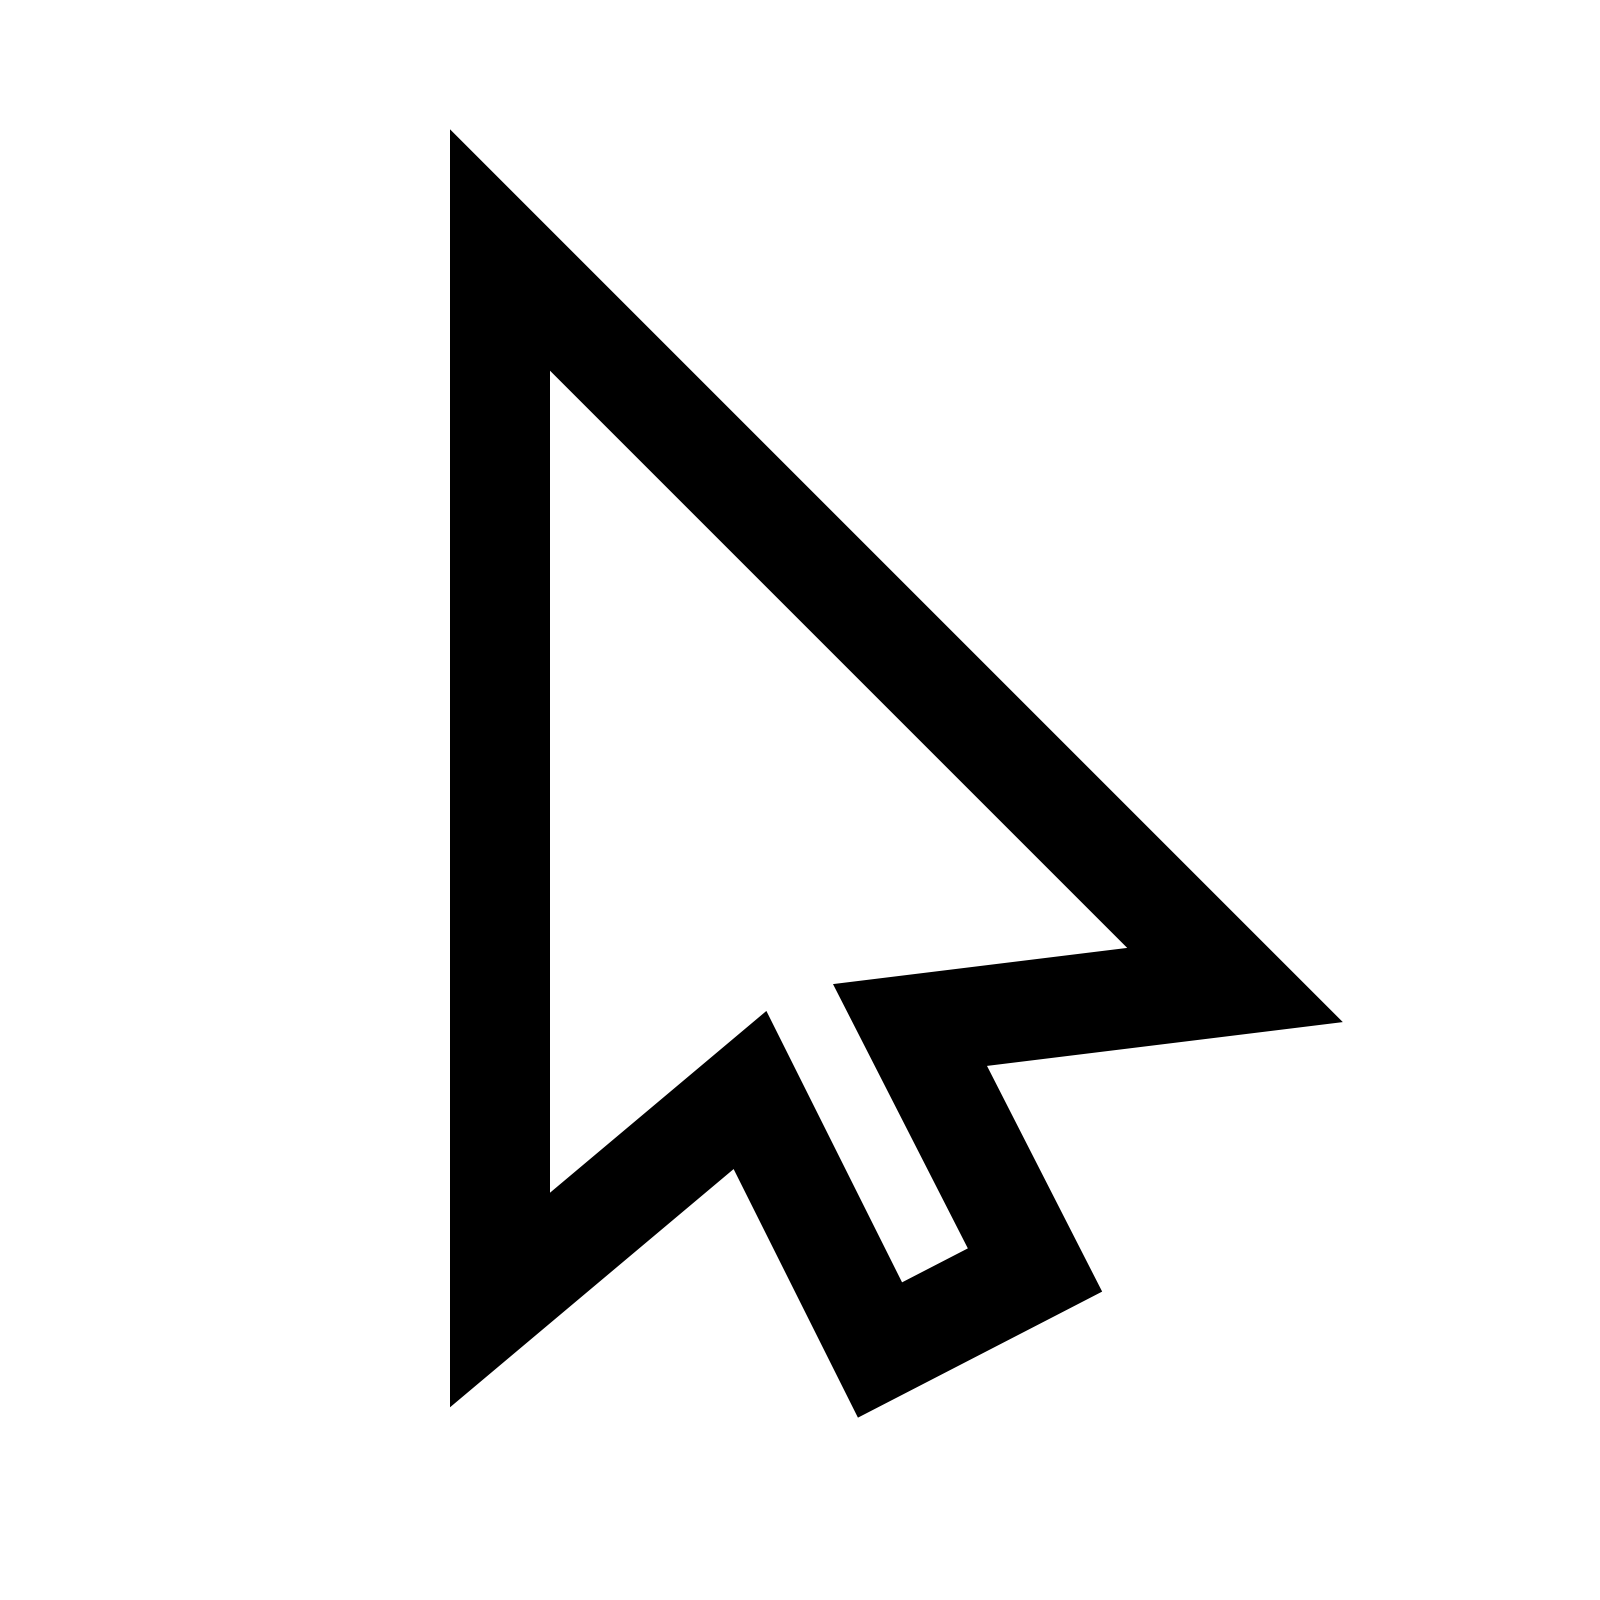
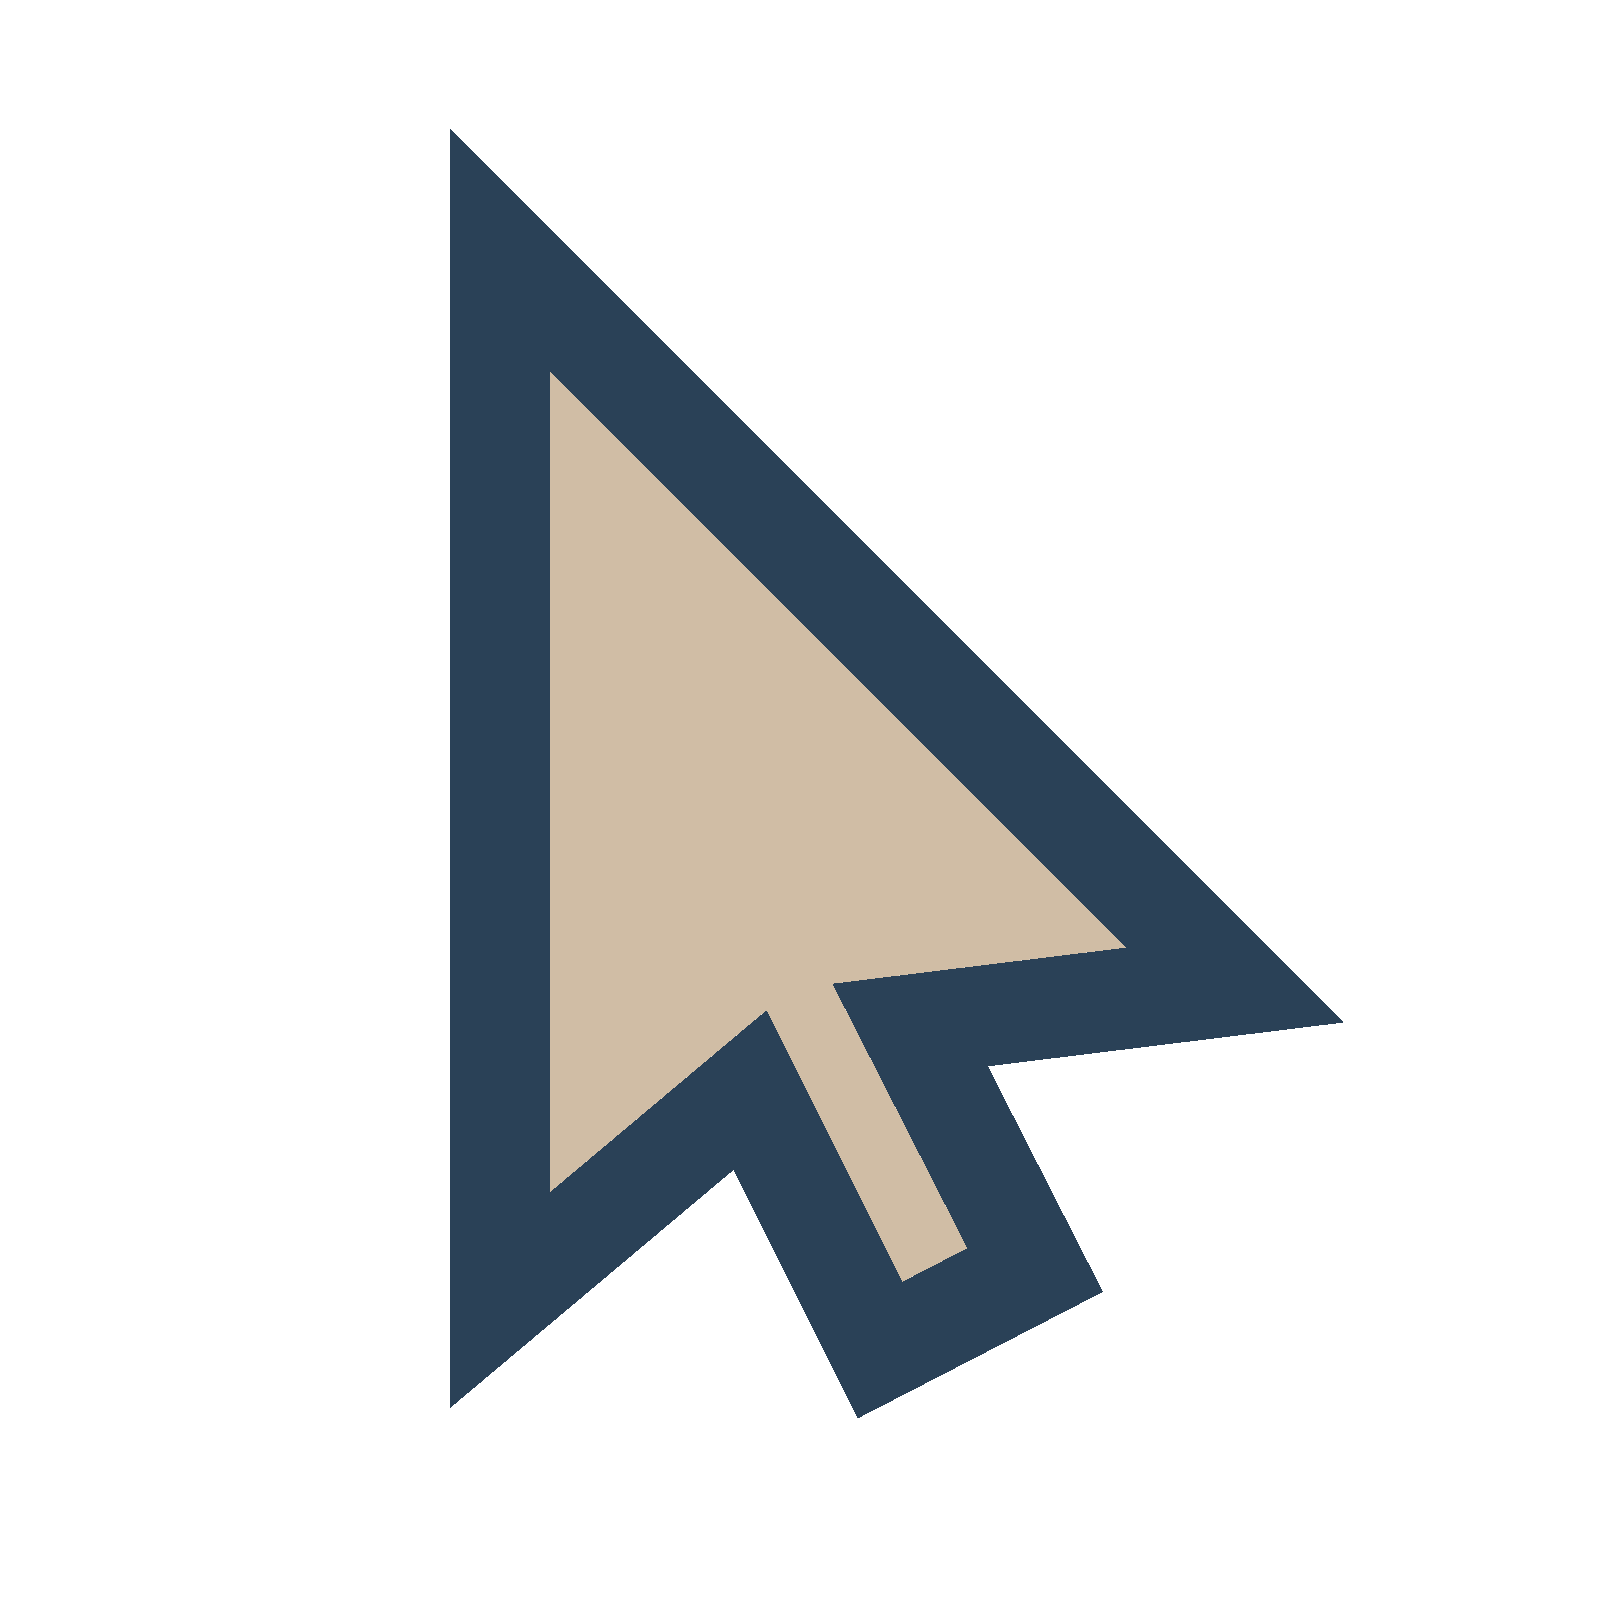
Smoothed out some of the movement with the predators, also changed the coloring of the cursor for the web pages.

Changed region(s): [[0.2812, 0.0938, 0.8438, 0.9062]]

diff --git a/public/benchmark3/js/Game.js b/public/benchmark3/js/Game.js
@@ -110,8 +110,6 @@ AquaCycle.Game.prototype = {
     /*****************************************************
     *   CONFIG FUNCTIONS
     ******************************************************/
-
-
     checkCurrentLevel:function() {
         //a jquery library to get the current level from a stored cookie
        CURRENT_LEVEL = Cookies.get('currentLevel');
@@ -122,13 +120,11 @@ AquaCycle.Game.prototype = {
        else {
          
        }
-    }, 
+    },
     
     /*****************************************************
     *   WORLD & LEVEL FUNCTIONS
     ******************************************************/
-
-
     loadLevel:function(){
         this.map = this.game.add.tilemap('level1');
         //this.map.addTilesetImage('DepthTileMockups','world');
@@ -196,6 +192,9 @@ AquaCycle.Game.prototype = {
         typetext.fixedToCamera = true;
     },
 
+    /*****************************************************
+    *   HELPER FUNCTIONS
+    ******************************************************/
     findObjectsByType: function(type,map,layer){
         var result = new Array();
         map.objects[layer].forEach(function(element){
@@ -382,6 +381,7 @@ AquaCycle.Game.prototype = {
             predator.isMoving = false;
             predator.body.collideWorldBounds = true;
             predator.anchor.setTo(0.5,0.5);
+            //predator.body.allowRotation = false;
             
             predator.animations.add('move',[1,3,5,7,9,11,13,15,17,0,2,4,6,8,10,12,14,16]);
             //allows predators to be clicked on
@@ -392,8 +392,14 @@ AquaCycle.Game.prototype = {
     },
 
     movePredators: function(){
+        // TODO: Need to smooth out movement
+        // Then need to make predators move toward player when in two diff agro ranges
+            // one for close up and the other a bit farther away with faster movement
+            // Add something like an isStalking boolean
         this.predators.forEach(function(predator){
             if(predator.isMoving == false){
+                predator.body.angularVelocity = 0;
+                predator.body.fixedRotation = true;
                 predator.isMoving = true;
                 predator.animations.play("move",20,true);
                 var randomDirection = this.game.rnd.integerInRange(0,10);
@@ -406,7 +412,7 @@ AquaCycle.Game.prototype = {
                 predator.body.velocity.copyFrom(this.game.physics.arcade.velocityFromAngle(predator.angle,150));
                 //var randomTime = this.game.rnd.integerInRange(1,8)*100;
                 //this.game.time.events.add(randomTime,this.anglePredators,this);
-                this.game.time.events.add(1000,this.stopPredators,this); 
+                this.game.time.events.add(300,this.stopPredators,this);
             }
             
         },this);
